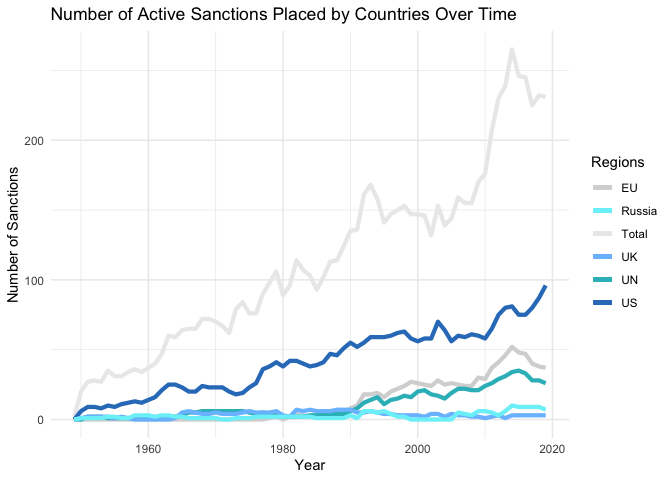
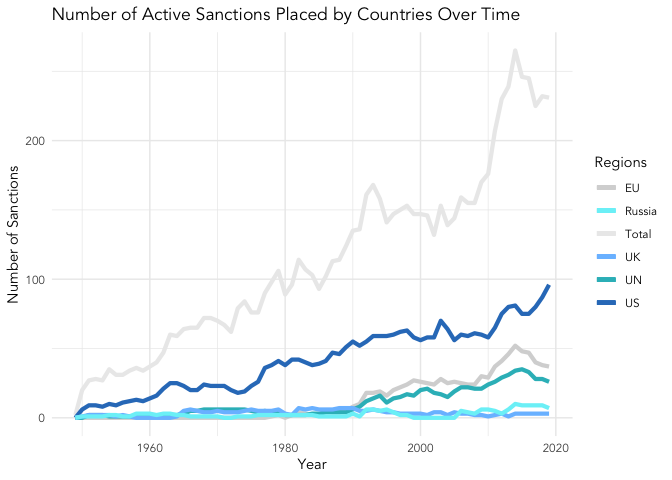
Cleaning

diff --git a/docs/Project.md b/docs/Project.md
@@ -249,7 +249,8 @@ ggplot(num_sanc)+
   geom_line(aes(x=year, y=runumber,color="Russia"),size=1.5)+
   theme_minimal()+
   scale_color_manual(values=c("Total"="#EBEBEB","US"="#307DC3","EU"="#D6D6D6","UN"="#30BBC3","UK"="#7ABFFF","Russia"="#79F1F8"))+
-  labs(title="Number of Active Sanctions Placed by Countries Over Time",color="Regions",x="Year",y="Number of Sanctions") 
+  labs(title="Number of Active Sanctions Placed by Countries Over Time",color="Regions",x="Year",y="Number of Sanctions")+
+  theme(text = element_text(family = "Avenir"))
 ```
 
 ![](Project_files/figure-gfm/time%20series%20sanctions%20placed-1.png)<!-- -->
